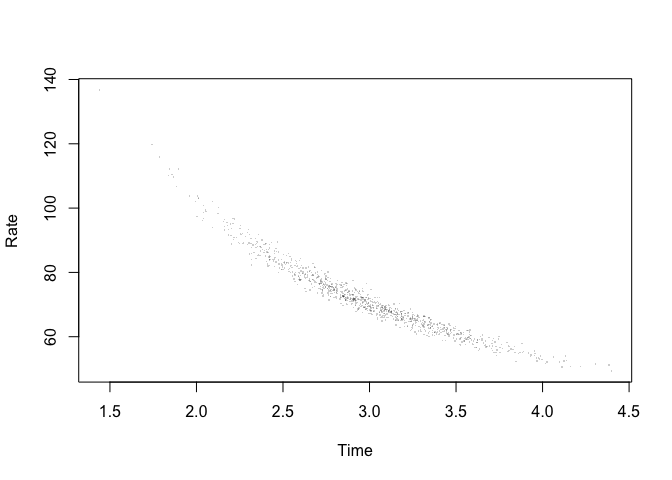
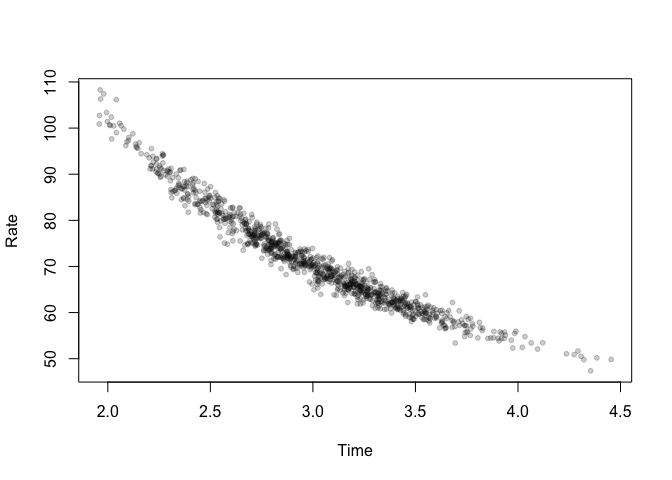
bigger points

diff --git a/README.md b/README.md
@@ -28,12 +28,12 @@ library(hyperr8)
 car_rates <- generate_car_simulation()
 head(car_rates)
 #>   distance     time     rate       dataset
-#> 1 211.1014 2.578783 81.86087 simulated car
-#> 2 213.5445 3.352930 63.68891 simulated car
-#> 3 209.1898 2.642042 79.17732 simulated car
-#> 4 213.9877 2.962133 72.24110 simulated car
-#> 5 209.4265 3.239187 64.65404 simulated car
-#> 6 204.6919 2.532969 80.81105 simulated car
+#> 1 206.9500 2.368772 87.36596 simulated car
+#> 2 221.3413 3.661825 60.44562 simulated car
+#> 3 208.6496 2.965327 70.36310 simulated car
+#> 4 212.2328 3.012719 70.44559 simulated car
+#> 5 214.2982 3.185374 67.27568 simulated car
+#> 6 209.1510 3.231822 64.71612 simulated car
 ```
 
 This generates a dataset with 1,000 cars with an average speed of 70 mph
